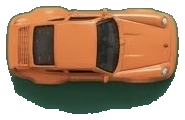
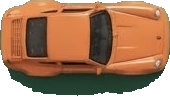
Clean car cutouts and bump to full-page Arabalarım v12.
Remove green-screen spill from top-down sprites, fix the dark coupe
extract, and keep the click-to-open Arabalarım page with full PNG cars.

diff --git a/index.html b/index.html
@@ -163,9 +163,10 @@
       font: inherit;
     }
     .garage-entry img {
-      width: 96px;
-      height: 52px;
+      width: 110px;
+      height: 60px;
       object-fit: contain;
+      object-position: center;
       background: #15202c;
       border-radius: 8px;
       flex: 0 0 auto;
@@ -434,7 +435,7 @@
     <section class="panel" id="menu">
       <div class="card">
         <h1>Halka Arabaları</h1>
-        <p id="build-tag" style="margin:0 0 10px;font-size:13px;font-weight:800;color:#f0a202;">Sürüm 11 · Tam araba sayfası</p>
+        <p id="build-tag" style="margin:0 0 10px;font-size:13px;font-weight:800;color:#f0a202;">Sürüm 12 · Tam araba sayfası</p>
         <p style="margin:0 0 8px;font-size:14px;">Çek-bırak, halkaya dur, botu yen. Oyunda Menü ile geri dön.</p>
         <p id="menu-best"></p>
         <button id="open-collection" class="garage-entry" type="button">
@@ -534,7 +535,7 @@
     const BODY_KEY = "halka-arabalari-body";
     const START_UNLOCK = 3;
     const BOT_COLORS = ["#296bdb", "#4cd1d6", "#598cf2", "#2e9ecc"];
-    const CAR_LEN = 128;
+    const CAR_LEN = 140;
     const CAR_WIDE = 62;
     const carSheets = [null, null, null];
     let ATLAS = null;
@@ -545,7 +546,7 @@
     let CAR_COUNT = PLAYER_COLORS.length;
     function carFileUrl(i) {
       const file = (ATLAS && ATLAS.cars[i] && ATLAS.cars[i].file) ? ATLAS.cars[i].file : ("car_" + String(i).padStart(2, "0") + ".png");
-      return "cars/" + file + "?v=11";
+      return "cars/" + file + "?v=12";
     }
     function punchCrop(img) {
       const w = img.naturalWidth;
@@ -592,12 +593,12 @@
         carSheets[i] = sheet;
         if (i === 0) carSheets[2] = sheet;
       };
-      im.src = src + "?v=11";
+      im.src = src + "?v=12";
     });
     function loadCarImages(meta) {
       carImages = meta.cars.map((c, i) => {
         const im = new Image();
-        im.src = "cars/" + (c.file || ("car_" + String(i).padStart(2, "0") + ".png")) + "?v=11";
+        im.src = "cars/" + (c.file || ("car_" + String(i).padStart(2, "0") + ".png")) + "?v=12";
         return im;
       });
     }
@@ -614,13 +615,13 @@
       refreshMenuBest();
       if (state === "collection") renderCollection();
     }
-    fetch("cars/atlas.json?v=11")
+    fetch("cars/atlas.json?v=12")
       .then((r) => r.json())
       .then((meta) => new Promise((resolve, reject) => {
         const img = new Image();
         img.onload = () => resolve({ meta, img });
         img.onerror = reject;
-        img.src = "cars/atlas.png?v=11";
+        img.src = "cars/atlas.png?v=12";
       }))
       .then(({ meta, img }) => applyAtlas(meta, img))
       .catch(() => { /* atlas yoksa renk yedekleri kalır */ });
